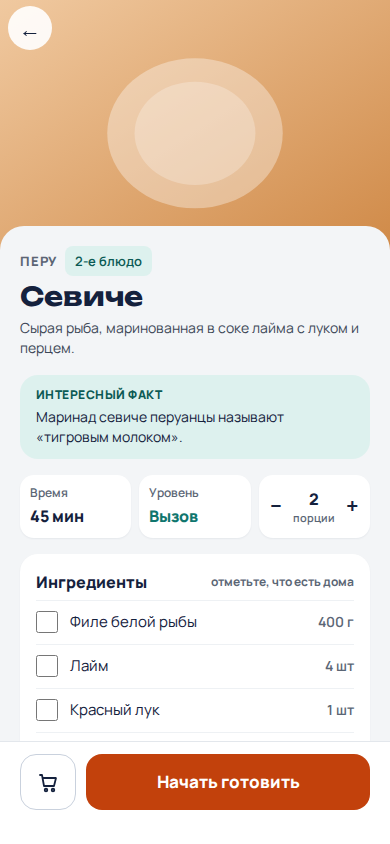
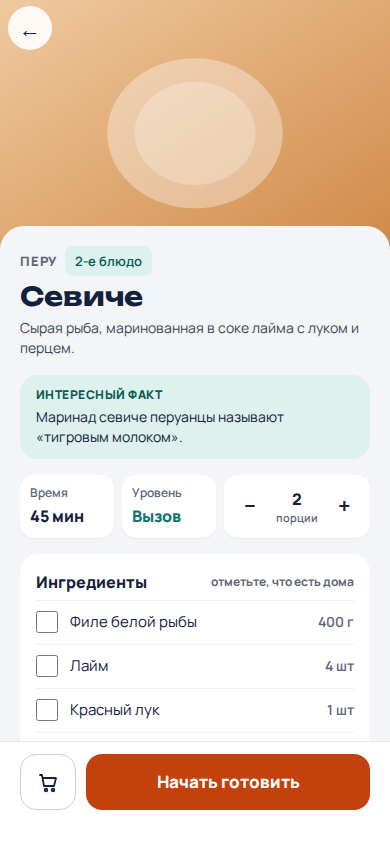
task 06: address review — 44px servings buttons, stepper signs in i18n, server-side default servings
Claude-Session: https://claude.ai/code/session_01R9pxBEq3oMRJTctHVFjyCy

Changed region(s): [[0.3385, 0.5545, 0.5231, 0.6161], [0.7077, 0.5853, 0.9231, 0.6469]]

diff --git a/apps/web/src/screens/dish/DishScreen.tsx b/apps/web/src/screens/dish/DishScreen.tsx
@@ -1,8 +1,7 @@
-import { defaultServings, SERVINGS_MAX, SERVINGS_MIN, type DishResponse } from '@tma80/shared';
+import { SERVINGS_MAX, SERVINGS_MIN, type DishResponse } from '@tma80/shared';
 import { useEffect, useState } from 'react';
 import { Link, useNavigate, useParams } from 'react-router';
 
-import { useAuthQuery } from '../../api/auth.ts';
 import {
   isNotFound,
   paywallPreview,
@@ -63,7 +62,7 @@ function DishSkeleton() {
 
 function Stat({ label, value, tone }: { label: string; value: string; tone?: 'primary' }) {
   return (
-    <div className="flex flex-col gap-0.5 rounded-tile bg-surface p-2.5 shadow-card">
+    <div className="flex min-w-0 flex-1 flex-col gap-0.5 rounded-tile bg-surface p-2.5 shadow-card">
       <span className="text-xs font-semibold text-muted">{label}</span>
       <span
         className={
@@ -88,7 +87,7 @@ function ServingsStepper({
     <div
       role="group"
       aria-label={t.servings.label}
-      className="flex items-center justify-between rounded-tile bg-surface shadow-card"
+      className="flex shrink-0 items-center gap-1 rounded-tile bg-surface px-1 shadow-card"
     >
       <button
         type="button"
@@ -97,11 +96,11 @@ function ServingsStepper({
         onClick={() => {
           onChange(servings - 1);
         }}
-        className="flex size-11 items-center justify-center rounded-tile text-4xl font-bold text-ink disabled:text-border"
+        className="flex size-11 shrink-0 items-center justify-center rounded-tile text-4xl font-bold text-ink disabled:text-border"
       >
-        −
+        <span aria-hidden="true">{t.servings.minusSign}</span>
       </button>
-      <span aria-live="polite" className="flex flex-col items-center">
+      <span aria-live="polite" className="flex min-w-10 flex-col items-center">
         <span className="text-lg font-extrabold">{servings}</span>
         <span className="text-2xs font-semibold text-muted">{t.servings.word(servings)}</span>
       </span>
@@ -112,9 +111,9 @@ function ServingsStepper({
         onClick={() => {
           onChange(servings + 1);
         }}
-        className="flex size-11 items-center justify-center rounded-tile text-4xl font-bold text-ink disabled:text-border"
+        className="flex size-11 shrink-0 items-center justify-center rounded-tile text-4xl font-bold text-ink disabled:text-border"
       >
-        +
+        <span aria-hidden="true">{t.servings.plusSign}</span>
       </button>
     </div>
   );
@@ -171,7 +170,7 @@ function DishCard({ dish, servings }: { dish: DishResponse; servings: number }) 
             </aside>
           )}
 
-          <div className="grid grid-cols-3 gap-2">
+          <div className="flex gap-2">
             <Stat label={t.time} value={ru.home.minutes(dish.minutes)} />
             <Stat label={t.level} value={ru.home.levels[dish.level]} tone="primary" />
             <ServingsStepper
@@ -265,12 +264,13 @@ export default function DishScreen() {
   const { id = '' } = useParams();
   const navigate = useNavigate();
   const onBack = useGoBack();
-  const { data: auth } = useAuthQuery(undefined);
   const chosen = useAppSelector((state) => selectServings(state, id));
-  const fallback = defaultServings(auth?.user.household ?? null);
-  // The request takes the servings the card opens with; − / + recalculate on the client.
-  const [requested] = useState(() => chosen ?? fallback);
-  const { data, error, isError, refetch } = useDishQuery({ id, servings: requested });
+  // The request takes the servings already chosen for this dish, if any; otherwise the server
+  // picks the default by the user's current «who eats». − / + then recalculate on the client.
+  const [requested] = useState(chosen);
+  const { data, error, isError, refetch } = useDishQuery(
+    requested === undefined ? { id } : { id, servings: requested },
+  );
   const preview = paywallPreview(error);
   const closedDishId = preview?.dishId;
 

diff --git a/e2e/dish.spec.ts b/e2e/dish.spec.ts
@@ -38,6 +38,17 @@ test.describe('dish card', () => {
     await expect(row(page, 'Соль')).toContainText('по вкусу');
     await shot(page, '01-card');
 
+    // − / + keep a 44 × 44 touch target on 390 and 375 px wide screens.
+    for (const width of [390, 375]) {
+      await page.setViewportSize({ width, height: 844 });
+      for (const name of ['Меньше порций', 'Больше порций']) {
+        const box = await servings(page).getByRole('button', { name }).boundingBox();
+        expect(box?.width, `${name} at ${String(width)} px`).toBeGreaterThanOrEqual(44);
+        expect(box?.height, `${name} at ${String(width)} px`).toBeGreaterThanOrEqual(44);
+      }
+    }
+    await page.setViewportSize({ width: 390, height: 844 });
+
     // + / − recalculate the amounts at once; «по вкусу» stays.
     await servings(page).getByRole('button', { name: 'Больше порций' }).click();
     await expect(servings(page)).toContainText('3порции');

diff --git a/apps/web/src/i18n/ru.ts b/apps/web/src/i18n/ru.ts
@@ -49,6 +49,8 @@ export const ru = {
         if (mod10 >= 2 && mod10 <= 4 && (mod100 < 12 || mod100 > 14)) return 'порции';
         return 'порций';
       },
+      minusSign: '−',
+      plusSign: '+',
       fewer: 'Меньше порций',
       more: 'Больше порций',
     },

diff --git a/docs/decisions/0008-dish-card-servings-shopping.md b/docs/decisions/0008-dish-card-servings-shopping.md
@@ -23,7 +23,7 @@
 
 - Логика в `packages/shared`: `defaultServings`, `clampServings`, `roundAmount`, `scaleAmount` (`servings.ts`), `hasCountryAccess` (правило `has_access`), `dishLabel` (метка вынесена из `suggestDishes`). Единицы — `INGREDIENT_UNITS` (`g`, `ml`, `pcs`, `tbsp`, `tsp`, `clove`, `pinch`), отделы — `AISLES`.
 - `GET /dishes/:id?servings=` → `dishResponseSchema`: поля карточки, `label`, `baseServings`, `servings` (запрошенные или по «кто ест»; неверное значение отбрасывается), ингредиенты с `baseAmount` (на базовые порции) и `amount` (на `servings`), шаги с плейсхолдерами `{key}` и `timerSeconds`. `403` — `paywallErrorSchema` (`error.preview`: `dishId`, `title`, `countryId`, `countryName`, `imageUrl`).
-- Клиент запрашивает блюдо один раз — с порциями, с которыми открывается карточка, — а − / + пересчитывает локально тем же `scaleAmount` из `baseAmount`: без запроса на каждое нажатие, а числа совпадают с серверными.
+- Клиент запрашивает блюдо один раз: с уже выбранными для этого блюда порциями, а если их нет — без `servings`, и сервер берёт порции по актуальному «кто ест» (клиент дефолт не вычисляет и не замораживает); − / + пересчитывает локально тем же `scaleAmount` из `baseAmount`: без запроса на каждое нажатие, а числа совпадают с серверными.
 - `POST /shopping` `{dishId, servings, ingredientKeys}` → `201 {added}`; сервер проверяет доступ к блюду и ключи ингредиентов.
 - Слайс `dish` (ленивый, в чанке экрана): `servings` и `atHome` по id блюда; режим готовки (задача 7) читает `selectServings`.
 - «Назад» вложенных экранов (`useGoBack`): предыдущий экран приложения или главный, если приложение открыто сразу на этом экране (по `history.state.idx` React Router), — чтобы не выйти из мини-аппа.
